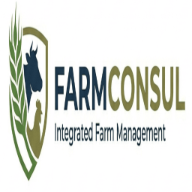
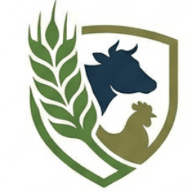
recent updates

diff --git a/app/pages/admin/calendar/index.vue b/app/pages/admin/calendar/index.vue
@@ -20,7 +20,7 @@
                 : 'bg-white text-gray-600 hover:bg-gray-50',
             ]"
           >
-            {{ v.label }}
+            {{ v.key === 'month' ? currentMonthName : v.label }}
           </button>
         </div>
         <button
@@ -358,8 +358,12 @@ const activeView = ref<ViewKey>('month')
 // currentDate drives nav (month start / week start / day)
 const currentDate = ref(new Date())
 const selectedDate = ref<string>(toDateStr(new Date()))
-
 const dayNames = ['Sun', 'Mon', 'Tue', 'Wed', 'Thu', 'Fri', 'Sat']
+
+// Current month name for the view toggle button
+const currentMonthName = computed(() =>
+  currentDate.value.toLocaleString('default', { month: 'long' })
+)
 
 // ─── Nav title ────────────────────────────────────────────────────────────────
 const navTitle = computed(() => {
@@ -517,11 +521,6 @@ async function fetchCalendarTasks() {
     const response = await $apiFetch<{ data: CalendarApiTask[] }>('/api/v1/tasks/calendar')
     const tasks = Array.isArray(response) ? response : (response?.data ?? [])
     allTasks.value = tasks
-
-    const firstScheduledTask = tasks.find(task => task.date)
-    if (firstScheduledTask?.date) {
-      selectDate(firstScheduledTask.date)
-    }
   } catch (error) {
     console.error('Failed to fetch calendar tasks', error)
     calendarError.value = 'Unable to load calendar tasks right now.'

diff --git a/app/layouts/admin.vue b/app/layouts/admin.vue
@@ -13,16 +13,11 @@
       <!-- Logo -->
       <div class="flex items-center justify-between h-16 px-6 border-b border-gray-200">
         <div class="flex items-center space-x-3">
-          <div class="w-10 h-10 bg-green-500 rounded-lg flex items-center justify-center">
-            <!-- Tractor Icon -->
-            <svg class="w-6 h-6 text-white" fill="none" stroke="currentColor" viewBox="0 0 24 24">
-              <path stroke-linecap="round" stroke-linejoin="round" stroke-width="2" 
-                    d="M9 3v2m6-2v2M9 19v2m6-2v2M5 9H3m2 6H3m18-6h-2m2 6h-2M7 19h10a2 2 0 002-2V7a2 2 0 00-2-2H7a2 2 0 00-2 2v10a2 2 0 002 2zM9 9h6v6H9V9z"/>
-            </svg>
-          </div>
           <div>
-            <h1 class="text-lg font-bold text-gray-900">FarmConsul</h1>
-            <p class="text-xs text-gray-500">Admin Portal</p>
+            <img 
+              src="/farmconsul_logo.png" 
+              alt="Farmconsul" 
+              class="w-20 h-20 sm:w-40 sm:h-40 object-contain"/>
           </div>
         </div>
         <button 
